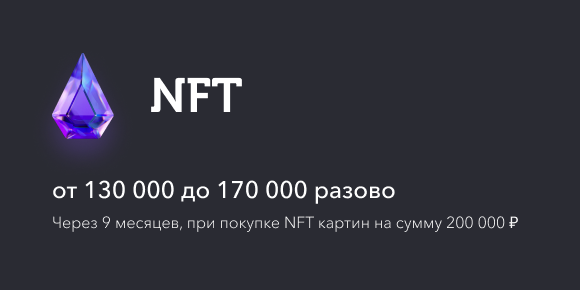
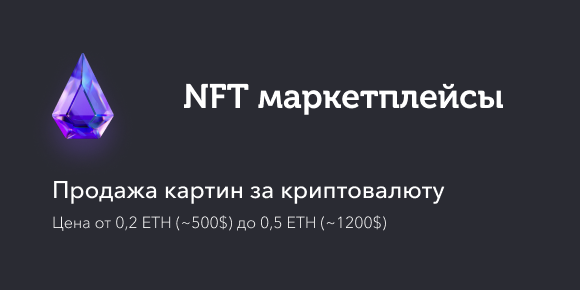
new cart & order

Changed region(s): [[0.2483, 0.2483, 0.869, 0.4034], [0.0931, 0.7448, 0.9, 0.8069], [0.0931, 0.6207, 0.7759, 0.7138]]

diff --git a/src/pages/Index.vue b/src/pages/Index.vue
@@ -16,8 +16,8 @@
           <q-carousel-slide :name="index+1" :img-src="$q.screen.lt.sm ? slide.image_mob : slide.image" v-for="(slide,index) in offerSlides" :key="index" >
             <div class="container full-height">
               <div class="flex column justify-center full-height">
-                <p class="text-white text-h3 text-avenir-600">{{slide.title}}</p>
-                <p class="text-white text-h6 text-weight-bold" v-html="slide.text"></p>
+                <p style="font-size: 5vw" class="text-white  text-avenir-600 q-mb-lg">{{slide.title}}</p>
+                <p style="font-size: 2vw" class="text-white  text-weight-bold" v-html="slide.text"></p>
                 <div v-if="slide.button_url" class="q-mt-xl">
                   <q-btn class="q-py-sm q-px-lg" rounded color="white" text-color="dark"
                          size="18px" no-caps unelevated :label="slide.button_text" :to="slide.button_url"/>
@@ -117,56 +117,56 @@
             <div class="row q-col-gutter-lg">
               <div class="col-12 col-md-6">
                 <q-img class="q-mb-lg" src="~assets/pp1-1.png"/>
-                <div class="flex items-center q-mb-md">
-                  <svg class="q-mr-sm" width="24" height="24" viewBox="0 0 24 24" fill="none" xmlns="http://www.w3.org/2000/svg">
-                    <path d="M14.72 8.79L10.43 13.09L8.78 11.44C8.69036 11.3353 8.58004 11.2503 8.45597 11.1903C8.33191 11.1303 8.19678 11.0965 8.05906 11.0912C7.92134 11.0859 7.78401 11.1091 7.65568 11.1594C7.52736 11.2096 7.41081 11.2859 7.31335 11.3833C7.2159 11.4808 7.13964 11.5974 7.08937 11.7257C7.03909 11.854 7.01589 11.9913 7.02121 12.1291C7.02653 12.2668 7.06026 12.4019 7.12028 12.526C7.1803 12.65 7.26532 12.7604 7.37 12.85L9.72 15.21C9.81344 15.3027 9.92426 15.376 10.0461 15.4258C10.1679 15.4755 10.2984 15.5008 10.43 15.5C10.6923 15.4989 10.9437 15.3947 11.13 15.21L16.13 10.21C16.2237 10.117 16.2981 10.0064 16.3489 9.88458C16.3997 9.76272 16.4258 9.63201 16.4258 9.5C16.4258 9.36799 16.3997 9.23728 16.3489 9.11542C16.2981 8.99356 16.2237 8.88296 16.13 8.79C15.9426 8.60375 15.6892 8.49921 15.425 8.49921C15.1608 8.49921 14.9074 8.60375 14.72 8.79ZM12 2C10.0222 2 8.08879 2.58649 6.4443 3.6853C4.79981 4.78412 3.51809 6.3459 2.76121 8.17317C2.00433 10.0004 1.8063 12.0111 2.19215 13.9509C2.578 15.8907 3.53041 17.6725 4.92894 19.0711C6.32746 20.4696 8.10929 21.422 10.0491 21.8079C11.9889 22.1937 13.9996 21.9957 15.8268 21.2388C17.6541 20.4819 19.2159 19.2002 20.3147 17.5557C21.4135 15.9112 22 13.9778 22 12C22 10.6868 21.7413 9.38642 21.2388 8.17317C20.7363 6.95991 19.9997 5.85752 19.0711 4.92893C18.1425 4.00035 17.0401 3.26375 15.8268 2.7612C14.6136 2.25866 13.3132 2 12 2ZM12 20C10.4178 20 8.87104 19.5308 7.55544 18.6518C6.23985 17.7727 5.21447 16.5233 4.60897 15.0615C4.00347 13.5997 3.84504 11.9911 4.15372 10.4393C4.4624 8.88743 5.22433 7.46197 6.34315 6.34315C7.46197 5.22433 8.88743 4.4624 10.4393 4.15372C11.9911 3.84504 13.5997 4.00346 15.0615 4.60896C16.5233 5.21447 17.7727 6.23984 18.6518 7.55544C19.5308 8.87103 20 10.4177 20 12C20 14.1217 19.1572 16.1566 17.6569 17.6569C16.1566 19.1571 14.1217 20 12 20Z" fill="#2A2B33"/>
-                  </svg>
+<!--                <div class="flex items-center q-mb-md">-->
+<!--                  <svg class="q-mr-sm" width="24" height="24" viewBox="0 0 24 24" fill="none" xmlns="http://www.w3.org/2000/svg">-->
+<!--                    <path d="M14.72 8.79L10.43 13.09L8.78 11.44C8.69036 11.3353 8.58004 11.2503 8.45597 11.1903C8.33191 11.1303 8.19678 11.0965 8.05906 11.0912C7.92134 11.0859 7.78401 11.1091 7.65568 11.1594C7.52736 11.2096 7.41081 11.2859 7.31335 11.3833C7.2159 11.4808 7.13964 11.5974 7.08937 11.7257C7.03909 11.854 7.01589 11.9913 7.02121 12.1291C7.02653 12.2668 7.06026 12.4019 7.12028 12.526C7.1803 12.65 7.26532 12.7604 7.37 12.85L9.72 15.21C9.81344 15.3027 9.92426 15.376 10.0461 15.4258C10.1679 15.4755 10.2984 15.5008 10.43 15.5C10.6923 15.4989 10.9437 15.3947 11.13 15.21L16.13 10.21C16.2237 10.117 16.2981 10.0064 16.3489 9.88458C16.3997 9.76272 16.4258 9.63201 16.4258 9.5C16.4258 9.36799 16.3997 9.23728 16.3489 9.11542C16.2981 8.99356 16.2237 8.88296 16.13 8.79C15.9426 8.60375 15.6892 8.49921 15.425 8.49921C15.1608 8.49921 14.9074 8.60375 14.72 8.79ZM12 2C10.0222 2 8.08879 2.58649 6.4443 3.6853C4.79981 4.78412 3.51809 6.3459 2.76121 8.17317C2.00433 10.0004 1.8063 12.0111 2.19215 13.9509C2.578 15.8907 3.53041 17.6725 4.92894 19.0711C6.32746 20.4696 8.10929 21.422 10.0491 21.8079C11.9889 22.1937 13.9996 21.9957 15.8268 21.2388C17.6541 20.4819 19.2159 19.2002 20.3147 17.5557C21.4135 15.9112 22 13.9778 22 12C22 10.6868 21.7413 9.38642 21.2388 8.17317C20.7363 6.95991 19.9997 5.85752 19.0711 4.92893C18.1425 4.00035 17.0401 3.26375 15.8268 2.7612C14.6136 2.25866 13.3132 2 12 2ZM12 20C10.4178 20 8.87104 19.5308 7.55544 18.6518C6.23985 17.7727 5.21447 16.5233 4.60897 15.0615C4.00347 13.5997 3.84504 11.9911 4.15372 10.4393C4.4624 8.88743 5.22433 7.46197 6.34315 6.34315C7.46197 5.22433 8.88743 4.4624 10.4393 4.15372C11.9911 3.84504 13.5997 4.00346 15.0615 4.60896C16.5233 5.21447 17.7727 6.23984 18.6518 7.55544C19.5308 8.87103 20 10.4177 20 12C20 14.1217 19.1572 16.1566 17.6569 17.6569C16.1566 19.1571 14.1217 20 12 20Z" fill="#2A2B33"/>-->
+<!--                  </svg>-->
 
-                  <p class="no-margin text-body2 text-avenir-450">Начисляем 2.5% от суммы покупки ежемесячно (30% в год)</p>
-                </div>
-                <div class="flex items-center q-mb-md">
-                  <svg class="q-mr-sm" width="24" height="24" viewBox="0 0 24 24" fill="none" xmlns="http://www.w3.org/2000/svg">
-                    <path d="M14.72 8.79L10.43 13.09L8.78 11.44C8.69036 11.3353 8.58004 11.2503 8.45597 11.1903C8.33191 11.1303 8.19678 11.0965 8.05906 11.0912C7.92134 11.0859 7.78401 11.1091 7.65568 11.1594C7.52736 11.2096 7.41081 11.2859 7.31335 11.3833C7.2159 11.4808 7.13964 11.5974 7.08937 11.7257C7.03909 11.854 7.01589 11.9913 7.02121 12.1291C7.02653 12.2668 7.06026 12.4019 7.12028 12.526C7.1803 12.65 7.26532 12.7604 7.37 12.85L9.72 15.21C9.81344 15.3027 9.92426 15.376 10.0461 15.4258C10.1679 15.4755 10.2984 15.5008 10.43 15.5C10.6923 15.4989 10.9437 15.3947 11.13 15.21L16.13 10.21C16.2237 10.117 16.2981 10.0064 16.3489 9.88458C16.3997 9.76272 16.4258 9.63201 16.4258 9.5C16.4258 9.36799 16.3997 9.23728 16.3489 9.11542C16.2981 8.99356 16.2237 8.88296 16.13 8.79C15.9426 8.60375 15.6892 8.49921 15.425 8.49921C15.1608 8.49921 14.9074 8.60375 14.72 8.79ZM12 2C10.0222 2 8.08879 2.58649 6.4443 3.6853C4.79981 4.78412 3.51809 6.3459 2.76121 8.17317C2.00433 10.0004 1.8063 12.0111 2.19215 13.9509C2.578 15.8907 3.53041 17.6725 4.92894 19.0711C6.32746 20.4696 8.10929 21.422 10.0491 21.8079C11.9889 22.1937 13.9996 21.9957 15.8268 21.2388C17.6541 20.4819 19.2159 19.2002 20.3147 17.5557C21.4135 15.9112 22 13.9778 22 12C22 10.6868 21.7413 9.38642 21.2388 8.17317C20.7363 6.95991 19.9997 5.85752 19.0711 4.92893C18.1425 4.00035 17.0401 3.26375 15.8268 2.7612C14.6136 2.25866 13.3132 2 12 2ZM12 20C10.4178 20 8.87104 19.5308 7.55544 18.6518C6.23985 17.7727 5.21447 16.5233 4.60897 15.0615C4.00347 13.5997 3.84504 11.9911 4.15372 10.4393C4.4624 8.88743 5.22433 7.46197 6.34315 6.34315C7.46197 5.22433 8.88743 4.4624 10.4393 4.15372C11.9911 3.84504 13.5997 4.00346 15.0615 4.60896C16.5233 5.21447 17.7727 6.23984 18.6518 7.55544C19.5308 8.87103 20 10.4177 20 12C20 14.1217 19.1572 16.1566 17.6569 17.6569C16.1566 19.1571 14.1217 20 12 20Z" fill="#2A2B33"/>
-                  </svg>
+<!--                  <p class="no-margin text-body2 text-avenir-450">Начисляем 2.5% от суммы покупки ежемесячно (30% в год)</p>-->
+<!--                </div>-->
+<!--                <div class="flex items-center q-mb-md">-->
+<!--                  <svg class="q-mr-sm" width="24" height="24" viewBox="0 0 24 24" fill="none" xmlns="http://www.w3.org/2000/svg">-->
+<!--                    <path d="M14.72 8.79L10.43 13.09L8.78 11.44C8.69036 11.3353 8.58004 11.2503 8.45597 11.1903C8.33191 11.1303 8.19678 11.0965 8.05906 11.0912C7.92134 11.0859 7.78401 11.1091 7.65568 11.1594C7.52736 11.2096 7.41081 11.2859 7.31335 11.3833C7.2159 11.4808 7.13964 11.5974 7.08937 11.7257C7.03909 11.854 7.01589 11.9913 7.02121 12.1291C7.02653 12.2668 7.06026 12.4019 7.12028 12.526C7.1803 12.65 7.26532 12.7604 7.37 12.85L9.72 15.21C9.81344 15.3027 9.92426 15.376 10.0461 15.4258C10.1679 15.4755 10.2984 15.5008 10.43 15.5C10.6923 15.4989 10.9437 15.3947 11.13 15.21L16.13 10.21C16.2237 10.117 16.2981 10.0064 16.3489 9.88458C16.3997 9.76272 16.4258 9.63201 16.4258 9.5C16.4258 9.36799 16.3997 9.23728 16.3489 9.11542C16.2981 8.99356 16.2237 8.88296 16.13 8.79C15.9426 8.60375 15.6892 8.49921 15.425 8.49921C15.1608 8.49921 14.9074 8.60375 14.72 8.79ZM12 2C10.0222 2 8.08879 2.58649 6.4443 3.6853C4.79981 4.78412 3.51809 6.3459 2.76121 8.17317C2.00433 10.0004 1.8063 12.0111 2.19215 13.9509C2.578 15.8907 3.53041 17.6725 4.92894 19.0711C6.32746 20.4696 8.10929 21.422 10.0491 21.8079C11.9889 22.1937 13.9996 21.9957 15.8268 21.2388C17.6541 20.4819 19.2159 19.2002 20.3147 17.5557C21.4135 15.9112 22 13.9778 22 12C22 10.6868 21.7413 9.38642 21.2388 8.17317C20.7363 6.95991 19.9997 5.85752 19.0711 4.92893C18.1425 4.00035 17.0401 3.26375 15.8268 2.7612C14.6136 2.25866 13.3132 2 12 2ZM12 20C10.4178 20 8.87104 19.5308 7.55544 18.6518C6.23985 17.7727 5.21447 16.5233 4.60897 15.0615C4.00347 13.5997 3.84504 11.9911 4.15372 10.4393C4.4624 8.88743 5.22433 7.46197 6.34315 6.34315C7.46197 5.22433 8.88743 4.4624 10.4393 4.15372C11.9911 3.84504 13.5997 4.00346 15.0615 4.60896C16.5233 5.21447 17.7727 6.23984 18.6518 7.55544C19.5308 8.87103 20 10.4177 20 12C20 14.1217 19.1572 16.1566 17.6569 17.6569C16.1566 19.1571 14.1217 20 12 20Z" fill="#2A2B33"/>-->
+<!--                  </svg>-->
 
-                  <p class="no-margin text-body2 text-avenir-450">Вывод средств и возврат картины в любое время</p>
-                </div>
-                <div class="flex items-center q-mb-lg">
-                  <svg class="q-mr-sm" width="24" height="24" viewBox="0 0 24 24" fill="none" xmlns="http://www.w3.org/2000/svg">
-                    <path d="M12 1L20.217 2.826C20.674 2.928 21 3.333 21 3.802V13.789C21 15.795 19.997 17.669 18.328 18.781L12 23L5.672 18.781C4.002 17.668 3 15.795 3 13.79V3.802C3 3.333 3.326 2.928 3.783 2.826L12 1ZM12 3.049L5 4.604V13.789C5 15.126 5.668 16.375 6.781 17.117L12 20.597L17.219 17.117C18.332 16.375 19 15.127 19 13.79V4.604L12 3.05V3.049ZM16.452 8.222L17.867 9.636L11.503 16L7.26 11.757L8.674 10.343L11.502 13.171L16.452 8.221V8.222Z" fill="#00C8AF"/>
-                  </svg>
+<!--                  <p class="no-margin text-body2 text-avenir-450">Вывод средств и возврат картины в любое время</p>-->
+<!--                </div>-->
+<!--                <div class="flex items-center q-mb-lg">-->
+<!--                  <svg class="q-mr-sm" width="24" height="24" viewBox="0 0 24 24" fill="none" xmlns="http://www.w3.org/2000/svg">-->
+<!--                    <path d="M12 1L20.217 2.826C20.674 2.928 21 3.333 21 3.802V13.789C21 15.795 19.997 17.669 18.328 18.781L12 23L5.672 18.781C4.002 17.668 3 15.795 3 13.79V3.802C3 3.333 3.326 2.928 3.783 2.826L12 1ZM12 3.049L5 4.604V13.789C5 15.126 5.668 16.375 6.781 17.117L12 20.597L17.219 17.117C18.332 16.375 19 15.127 19 13.79V4.604L12 3.05V3.049ZM16.452 8.222L17.867 9.636L11.503 16L7.26 11.757L8.674 10.343L11.502 13.171L16.452 8.221V8.222Z" fill="#00C8AF"/>-->
+<!--                  </svg>-->
 
 
-                  <p class="no-margin text-body2 text-avenir-450">Надежный постоянный доход</p>
-                </div>
+<!--                  <p class="no-margin text-body2 text-avenir-450">Надежный постоянный доход</p>-->
+<!--                </div>-->
 <!--                <q-btn class="q-px-xl"   size="18px" color="dark" rounded unelevated no-caps text-color="white" label="Узнать больше"/>-->
               </div>
               <div class="col-12 col-md-6">
                 <q-img class="q-mb-lg"  src="~assets/pp2-1.png"/>
-                <div class="flex items-center q-mb-md">
-                  <svg class="q-mr-sm" width="24" height="24" viewBox="0 0 24 24" fill="none" xmlns="http://www.w3.org/2000/svg">
-                    <path d="M14.72 8.79L10.43 13.09L8.78 11.44C8.69036 11.3353 8.58004 11.2503 8.45597 11.1903C8.33191 11.1303 8.19678 11.0965 8.05906 11.0912C7.92134 11.0859 7.78401 11.1091 7.65568 11.1594C7.52736 11.2096 7.41081 11.2859 7.31335 11.3833C7.2159 11.4808 7.13964 11.5974 7.08937 11.7257C7.03909 11.854 7.01589 11.9913 7.02121 12.1291C7.02653 12.2668 7.06026 12.4019 7.12028 12.526C7.1803 12.65 7.26532 12.7604 7.37 12.85L9.72 15.21C9.81344 15.3027 9.92426 15.376 10.0461 15.4258C10.1679 15.4755 10.2984 15.5008 10.43 15.5C10.6923 15.4989 10.9437 15.3947 11.13 15.21L16.13 10.21C16.2237 10.117 16.2981 10.0064 16.3489 9.88458C16.3997 9.76272 16.4258 9.63201 16.4258 9.5C16.4258 9.36799 16.3997 9.23728 16.3489 9.11542C16.2981 8.99356 16.2237 8.88296 16.13 8.79C15.9426 8.60375 15.6892 8.49921 15.425 8.49921C15.1608 8.49921 14.9074 8.60375 14.72 8.79ZM12 2C10.0222 2 8.08879 2.58649 6.4443 3.6853C4.79981 4.78412 3.51809 6.3459 2.76121 8.17317C2.00433 10.0004 1.8063 12.0111 2.19215 13.9509C2.578 15.8907 3.53041 17.6725 4.92894 19.0711C6.32746 20.4696 8.10929 21.422 10.0491 21.8079C11.9889 22.1937 13.9996 21.9957 15.8268 21.2388C17.6541 20.4819 19.2159 19.2002 20.3147 17.5557C21.4135 15.9112 22 13.9778 22 12C22 10.6868 21.7413 9.38642 21.2388 8.17317C20.7363 6.95991 19.9997 5.85752 19.0711 4.92893C18.1425 4.00035 17.0401 3.26375 15.8268 2.7612C14.6136 2.25866 13.3132 2 12 2ZM12 20C10.4178 20 8.87104 19.5308 7.55544 18.6518C6.23985 17.7727 5.21447 16.5233 4.60897 15.0615C4.00347 13.5997 3.84504 11.9911 4.15372 10.4393C4.4624 8.88743 5.22433 7.46197 6.34315 6.34315C7.46197 5.22433 8.88743 4.4624 10.4393 4.15372C11.9911 3.84504 13.5997 4.00346 15.0615 4.60896C16.5233 5.21447 17.7727 6.23984 18.6518 7.55544C19.5308 8.87103 20 10.4177 20 12C20 14.1217 19.1572 16.1566 17.6569 17.6569C16.1566 19.1571 14.1217 20 12 20Z" fill="#2A2B33"/>
-                  </svg>
+<!--                <div class="flex items-center q-mb-md">-->
+<!--                  <svg class="q-mr-sm" width="24" height="24" viewBox="0 0 24 24" fill="none" xmlns="http://www.w3.org/2000/svg">-->
+<!--                    <path d="M14.72 8.79L10.43 13.09L8.78 11.44C8.69036 11.3353 8.58004 11.2503 8.45597 11.1903C8.33191 11.1303 8.19678 11.0965 8.05906 11.0912C7.92134 11.0859 7.78401 11.1091 7.65568 11.1594C7.52736 11.2096 7.41081 11.2859 7.31335 11.3833C7.2159 11.4808 7.13964 11.5974 7.08937 11.7257C7.03909 11.854 7.01589 11.9913 7.02121 12.1291C7.02653 12.2668 7.06026 12.4019 7.12028 12.526C7.1803 12.65 7.26532 12.7604 7.37 12.85L9.72 15.21C9.81344 15.3027 9.92426 15.376 10.0461 15.4258C10.1679 15.4755 10.2984 15.5008 10.43 15.5C10.6923 15.4989 10.9437 15.3947 11.13 15.21L16.13 10.21C16.2237 10.117 16.2981 10.0064 16.3489 9.88458C16.3997 9.76272 16.4258 9.63201 16.4258 9.5C16.4258 9.36799 16.3997 9.23728 16.3489 9.11542C16.2981 8.99356 16.2237 8.88296 16.13 8.79C15.9426 8.60375 15.6892 8.49921 15.425 8.49921C15.1608 8.49921 14.9074 8.60375 14.72 8.79ZM12 2C10.0222 2 8.08879 2.58649 6.4443 3.6853C4.79981 4.78412 3.51809 6.3459 2.76121 8.17317C2.00433 10.0004 1.8063 12.0111 2.19215 13.9509C2.578 15.8907 3.53041 17.6725 4.92894 19.0711C6.32746 20.4696 8.10929 21.422 10.0491 21.8079C11.9889 22.1937 13.9996 21.9957 15.8268 21.2388C17.6541 20.4819 19.2159 19.2002 20.3147 17.5557C21.4135 15.9112 22 13.9778 22 12C22 10.6868 21.7413 9.38642 21.2388 8.17317C20.7363 6.95991 19.9997 5.85752 19.0711 4.92893C18.1425 4.00035 17.0401 3.26375 15.8268 2.7612C14.6136 2.25866 13.3132 2 12 2ZM12 20C10.4178 20 8.87104 19.5308 7.55544 18.6518C6.23985 17.7727 5.21447 16.5233 4.60897 15.0615C4.00347 13.5997 3.84504 11.9911 4.15372 10.4393C4.4624 8.88743 5.22433 7.46197 6.34315 6.34315C7.46197 5.22433 8.88743 4.4624 10.4393 4.15372C11.9911 3.84504 13.5997 4.00346 15.0615 4.60896C16.5233 5.21447 17.7727 6.23984 18.6518 7.55544C19.5308 8.87103 20 10.4177 20 12C20 14.1217 19.1572 16.1566 17.6569 17.6569C16.1566 19.1571 14.1217 20 12 20Z" fill="#2A2B33"/>-->
+<!--                  </svg>-->
 
-                  <p class="no-margin text-body2 text-avenir-450">Итоговая сумма варьируется от длительности рекламы</p>
-                </div>
-                <div class="flex items-center q-mb-md">
-                  <svg class="q-mr-sm" width="24" height="24" viewBox="0 0 24 24" fill="none" xmlns="http://www.w3.org/2000/svg">
-                    <path d="M14.72 8.79L10.43 13.09L8.78 11.44C8.69036 11.3353 8.58004 11.2503 8.45597 11.1903C8.33191 11.1303 8.19678 11.0965 8.05906 11.0912C7.92134 11.0859 7.78401 11.1091 7.65568 11.1594C7.52736 11.2096 7.41081 11.2859 7.31335 11.3833C7.2159 11.4808 7.13964 11.5974 7.08937 11.7257C7.03909 11.854 7.01589 11.9913 7.02121 12.1291C7.02653 12.2668 7.06026 12.4019 7.12028 12.526C7.1803 12.65 7.26532 12.7604 7.37 12.85L9.72 15.21C9.81344 15.3027 9.92426 15.376 10.0461 15.4258C10.1679 15.4755 10.2984 15.5008 10.43 15.5C10.6923 15.4989 10.9437 15.3947 11.13 15.21L16.13 10.21C16.2237 10.117 16.2981 10.0064 16.3489 9.88458C16.3997 9.76272 16.4258 9.63201 16.4258 9.5C16.4258 9.36799 16.3997 9.23728 16.3489 9.11542C16.2981 8.99356 16.2237 8.88296 16.13 8.79C15.9426 8.60375 15.6892 8.49921 15.425 8.49921C15.1608 8.49921 14.9074 8.60375 14.72 8.79ZM12 2C10.0222 2 8.08879 2.58649 6.4443 3.6853C4.79981 4.78412 3.51809 6.3459 2.76121 8.17317C2.00433 10.0004 1.8063 12.0111 2.19215 13.9509C2.578 15.8907 3.53041 17.6725 4.92894 19.0711C6.32746 20.4696 8.10929 21.422 10.0491 21.8079C11.9889 22.1937 13.9996 21.9957 15.8268 21.2388C17.6541 20.4819 19.2159 19.2002 20.3147 17.5557C21.4135 15.9112 22 13.9778 22 12C22 10.6868 21.7413 9.38642 21.2388 8.17317C20.7363 6.95991 19.9997 5.85752 19.0711 4.92893C18.1425 4.00035 17.0401 3.26375 15.8268 2.7612C14.6136 2.25866 13.3132 2 12 2ZM12 20C10.4178 20 8.87104 19.5308 7.55544 18.6518C6.23985 17.7727 5.21447 16.5233 4.60897 15.0615C4.00347 13.5997 3.84504 11.9911 4.15372 10.4393C4.4624 8.88743 5.22433 7.46197 6.34315 6.34315C7.46197 5.22433 8.88743 4.4624 10.4393 4.15372C11.9911 3.84504 13.5997 4.00346 15.0615 4.60896C16.5233 5.21447 17.7727 6.23984 18.6518 7.55544C19.5308 8.87103 20 10.4177 20 12C20 14.1217 19.1572 16.1566 17.6569 17.6569C16.1566 19.1571 14.1217 20 12 20Z" fill="#2A2B33"/>
-                  </svg>
+<!--                  <p class="no-margin text-body2 text-avenir-450">Итоговая сумма варьируется от длительности рекламы</p>-->
+<!--                </div>-->
+<!--                <div class="flex items-center q-mb-md">-->
+<!--                  <svg class="q-mr-sm" width="24" height="24" viewBox="0 0 24 24" fill="none" xmlns="http://www.w3.org/2000/svg">-->
+<!--                    <path d="M14.72 8.79L10.43 13.09L8.78 11.44C8.69036 11.3353 8.58004 11.2503 8.45597 11.1903C8.33191 11.1303 8.19678 11.0965 8.05906 11.0912C7.92134 11.0859 7.78401 11.1091 7.65568 11.1594C7.52736 11.2096 7.41081 11.2859 7.31335 11.3833C7.2159 11.4808 7.13964 11.5974 7.08937 11.7257C7.03909 11.854 7.01589 11.9913 7.02121 12.1291C7.02653 12.2668 7.06026 12.4019 7.12028 12.526C7.1803 12.65 7.26532 12.7604 7.37 12.85L9.72 15.21C9.81344 15.3027 9.92426 15.376 10.0461 15.4258C10.1679 15.4755 10.2984 15.5008 10.43 15.5C10.6923 15.4989 10.9437 15.3947 11.13 15.21L16.13 10.21C16.2237 10.117 16.2981 10.0064 16.3489 9.88458C16.3997 9.76272 16.4258 9.63201 16.4258 9.5C16.4258 9.36799 16.3997 9.23728 16.3489 9.11542C16.2981 8.99356 16.2237 8.88296 16.13 8.79C15.9426 8.60375 15.6892 8.49921 15.425 8.49921C15.1608 8.49921 14.9074 8.60375 14.72 8.79ZM12 2C10.0222 2 8.08879 2.58649 6.4443 3.6853C4.79981 4.78412 3.51809 6.3459 2.76121 8.17317C2.00433 10.0004 1.8063 12.0111 2.19215 13.9509C2.578 15.8907 3.53041 17.6725 4.92894 19.0711C6.32746 20.4696 8.10929 21.422 10.0491 21.8079C11.9889 22.1937 13.9996 21.9957 15.8268 21.2388C17.6541 20.4819 19.2159 19.2002 20.3147 17.5557C21.4135 15.9112 22 13.9778 22 12C22 10.6868 21.7413 9.38642 21.2388 8.17317C20.7363 6.95991 19.9997 5.85752 19.0711 4.92893C18.1425 4.00035 17.0401 3.26375 15.8268 2.7612C14.6136 2.25866 13.3132 2 12 2ZM12 20C10.4178 20 8.87104 19.5308 7.55544 18.6518C6.23985 17.7727 5.21447 16.5233 4.60897 15.0615C4.00347 13.5997 3.84504 11.9911 4.15372 10.4393C4.4624 8.88743 5.22433 7.46197 6.34315 6.34315C7.46197 5.22433 8.88743 4.4624 10.4393 4.15372C11.9911 3.84504 13.5997 4.00346 15.0615 4.60896C16.5233 5.21447 17.7727 6.23984 18.6518 7.55544C19.5308 8.87103 20 10.4177 20 12C20 14.1217 19.1572 16.1566 17.6569 17.6569C16.1566 19.1571 14.1217 20 12 20Z" fill="#2A2B33"/>-->
+<!--                  </svg>-->
 
-                  <p class="no-margin text-body2 text-avenir-450">Вывод средств через 5 месяцев (от 18 до 34% прибыли)<br>или 9 месяцев (от 65 до 85% прибыли)</p>
-                </div>
-                <div class="flex items-center q-mb-lg">
-                  <svg class="q-mr-sm" width="24" height="24" viewBox="0 0 24 24" fill="none" xmlns="http://www.w3.org/2000/svg">
-                    <path d="M11.9996 7V13M17.4796 3.5L22.0996 11.5C22.1874 11.652 22.2336 11.8245 22.2336 12C22.2336 12.1755 22.1874 12.348 22.0996 12.5L17.4796 20.5C17.3923 20.6511 17.2671 20.7768 17.1162 20.8645C16.9653 20.9522 16.7941 20.9989 16.6196 21H7.3796C7.20509 20.9989 7.03389 20.9522 6.88302 20.8645C6.73214 20.7768 6.60685 20.6511 6.5196 20.5L1.8996 12.5C1.81183 12.348 1.76562 12.1755 1.76562 12C1.76562 11.8245 1.81183 11.652 1.8996 11.5L6.5196 3.5C6.60685 3.34886 6.73214 3.22319 6.88302 3.13547C7.03389 3.04776 7.20509 3.00105 7.3796 3H16.6196C16.7941 3.00105 16.9653 3.04776 17.1162 3.13547C17.2671 3.22319 17.3923 3.34886 17.4796 3.5V3.5Z" stroke="#FF8887" stroke-width="2.5" stroke-linecap="round" stroke-linejoin="round"/>
-                    <path d="M12.0492 17H11.9492" stroke="#FF8887" stroke-width="2.5" stroke-linecap="round" stroke-linejoin="round"/>
-                  </svg>
+<!--                  <p class="no-margin text-body2 text-avenir-450">Вывод средств через 5 месяцев (от 18 до 34% прибыли)<br>или 9 месяцев (от 65 до 85% прибыли)</p>-->
+<!--                </div>-->
+<!--                <div class="flex items-center q-mb-lg">-->
+<!--                  <svg class="q-mr-sm" width="24" height="24" viewBox="0 0 24 24" fill="none" xmlns="http://www.w3.org/2000/svg">-->
+<!--                    <path d="M11.9996 7V13M17.4796 3.5L22.0996 11.5C22.1874 11.652 22.2336 11.8245 22.2336 12C22.2336 12.1755 22.1874 12.348 22.0996 12.5L17.4796 20.5C17.3923 20.6511 17.2671 20.7768 17.1162 20.8645C16.9653 20.9522 16.7941 20.9989 16.6196 21H7.3796C7.20509 20.9989 7.03389 20.9522 6.88302 20.8645C6.73214 20.7768 6.60685 20.6511 6.5196 20.5L1.8996 12.5C1.81183 12.348 1.76562 12.1755 1.76562 12C1.76562 11.8245 1.81183 11.652 1.8996 11.5L6.5196 3.5C6.60685 3.34886 6.73214 3.22319 6.88302 3.13547C7.03389 3.04776 7.20509 3.00105 7.3796 3H16.6196C16.7941 3.00105 16.9653 3.04776 17.1162 3.13547C17.2671 3.22319 17.3923 3.34886 17.4796 3.5V3.5Z" stroke="#FF8887" stroke-width="2.5" stroke-linecap="round" stroke-linejoin="round"/>-->
+<!--                    <path d="M12.0492 17H11.9492" stroke="#FF8887" stroke-width="2.5" stroke-linecap="round" stroke-linejoin="round"/>-->
+<!--                  </svg>-->
 
 
 
-                  <p class="no-margin text-body2 text-avenir-450">Более рисковый доход, есть привязка к курсу криптовалюты</p>
-                </div>
+<!--                  <p class="no-margin text-body2 text-avenir-450">Более рисковый доход, есть привязка к курсу криптовалюты</p>-->
+<!--                </div>-->
 <!--                <q-btn class="q-px-xl"   size="18px" color="dark" rounded unelevated no-caps text-color="white" label="Узнать больше"/>-->
               </div>
             </div>

diff --git a/src/pages/Profit.vue b/src/pages/Profit.vue
@@ -9,15 +9,15 @@
       <h1 class="title q-mb-lg q-mb-lg-xl">Доход</h1>
       <!--      <p class="text-fs18 text-avenir-600 q-mb-xl">Мы, отработали систему, которая приносит доход от каждой картины.</p>-->
       <p class="text-fs18 text-avenir-300 q-mb-xl">
-Мы отработали систему, которая приносит доход от каждой картины. Для развития нашей компании мы представляем два разных тарифа по двум направлениям: классический тариф “Рантье” для получения разового дохода или же “NFT” тариф для разового получения высокой прибыли.</p>
-       <div class="row q-mb-xl">
-        <div class="col-12 col-md-6">
-          <q-img src="~assets/pp1-1.png"/>
-        </div>
-        <div class="col-12 col-md-6">
-          <q-img src="~assets/pp1-2.png"/>
-        </div>
-      </div>
+Наша работа позволяет сформировать доходность для каждой картины, при этом уровень ликвидности не зависит от художественной ценности и материальной стоимости актива, прибыль с картин получается при условии участия в экспозиционной и продажной деятельности на территории Китая, а также освоения западных цифровых продажных площадок NFT.</p>
+<!--       <div class="row q-mb-xl">-->
+<!--        <div class="col-12 col-md-6">-->
+<!--          <q-img src="~assets/pp1-1.png"/>-->
+<!--        </div>-->
+<!--        <div class="col-12 col-md-6">-->
+<!--          <q-img src="~assets/pp1-2.png"/>-->
+<!--        </div>-->
+<!--      </div>-->
 <!--      <div class="steps">-->
 <!--        <div class="step flex items-center justify-between" v-for="(step,index) in steps" :key="index">-->
 <!--          <div class="">-->
@@ -29,53 +29,64 @@
 <!--          </div>-->
 <!--        </div>-->
 <!--      </div>-->
+      <div class="q-mb-lg"><span style="opacity: 0">sdfdsf</span></div>
       <div class="row">
         <div class="col-12 col-md-8 text-b">
-           <h3 class="title q-mb-lg fs-36">Заработок на экспозиции картин</h3>
+           <h3 class="title q-mb-lg fs-36">01. Экспозиции картин в Китае</h3>
           <p class="no-margin text-avenir-300">
-            Для Китая формируем коллекции из 30 авторских репродукций, и через партнера ArtBooklet Ltd., размещаем их на экспозициях в провинциальных городах, с образовательной и просветительской целью.
-            <br><br>
-            От китайской стороны стабильно получаем 10 Юаней (1,5 $) в сутки за каждую картину, из расчета 300 экспозиционных дней в году.
-            <br><br>
-            Также открыты пункты продаж репродукций в этих местах. Необходимое количество экспозиций в год не менее 10 (300 картин), и эти потребности в Китае постоянно растут.
-            <br><br>
-            В России сдаем в аренду авторские репродукции музейного качества по 30 рублей в сутки за каждую картину, в общеобразовательные, культурные и административные учреждения, меценаты активно участвуют в этом процессе.
-          </p>
+        Для Китая формируем коллекции из авторских репродукций, и через китайского партнера ArtBooklet Ltd., размещаем их на экспозициях в провинциальных городах, с образовательной и просветительской целью.
+<br><br>
+От китайской стороны стабильно получаем 10 Юаней (1,5 $) в сутки за каждую картину, из расчета 300 экспозиционных дней в году, там же открыты пункты продаж репродукций. Необходимое количество экспозиций в год не менее 10 (300 картин), и эти потребности в Китае постоянно растут.</p>
         </div>
         <div class="col-12 col-md-3 offset-0 offset-md-1 text-center img-b">
           <img src="/p1.png" alt="">
         </div>
       </div>
-      <q-separator spaced="xl"/>
+      <q-separator style="margin: 50px 0"/>
       <div class="row">
         <div class="col-12 col-md-3 text-center">
-          <img src="/p3.png" alt="">
+          <img src="~assets/nft-img.png" alt="">
         </div>
         <div class="col-12 col-md-7 offset-0 offset-md-2">
-          <h3 class="title q-mb-lg fs-36 ">Только проверенные авторы</h3>
+          <h3 class="title q-mb-lg fs-36 ">02. Продажа картин NFT – на маркетплейсах OpenSea, Foundation</h3>
           <p class="no-margin text-avenir-300">
-            Все наши картины анонимные, мы заведомо не указываем авторов, чтобы авторитетом и перечнем заслуг не завышать цены на них. С каждым художником мы имеем соглашение на покупку оцифрованной картины, на общий тираж произведения (30 штук с каждого оригинала), печать, подпись и сертификат от художника подтверждает это.
-            <br><br>
-            Репродукции картин сделаны на высочайшем уровне, с использованием наилучших, экологически чистых материалов. Наш покупатель получает одну репродукцию, остальные экземпляры отправляются управляющей компанией в разные регионы России и Китая, для обеспечения дохода.
+         NFT, или "несменяемый токен" - это уникальный цифровой сертификат, который хранится в блокчейне и предоставляет определенные права собственности на актив, такой как цифровое произведение искусства. NFT предоставляют мощный инструмент для установления и демонстрации прав собственности в пространстве цифровых активов. "Чеканка" NFT относится к созданию NFT и его записи в блокчейне впервые. Чеканщик может быть создателем работы, связанной с NFT, например, художником, или кем-либо, имеющим соответствующие права на чеканку NFT цифрового актива.
+<br><br>
+            ARTDOX - сделала NFT искусство Доходным. Наша цель - заявить о себе на торговых площадках NFT и обеспечить нашим Клиентам достойный заработок. Наш Доход зависит от длительности проведения рекламной кампании, и привязан к курсу криптовалюты ETH (Эфир). Средняя стоимость каждой работы от 0,20 до 0,50 ETH – Etherium (500 – 1300 $)
           </p>
         </div>
 
       </div>
-      <q-separator spaced="xl"/>
+       <q-separator style="margin: 50px 0"/>
       <div class="row q-mb-xl">
         <div class="col-12 col-md-7 text-b">
-          <h3 class="title q-mb-lg fs-36">Качество работы для нас превыше всего</h3>
+          <h3 class="title q-mb-lg fs-36">03. Только проверенные авторы</h3>
           <p class="no-margin text-avenir-300">
-            Мы работаем только с акварельной живописью в Digi Gravure – цифровая гравюра. DIGI – оцифровка оригинала. GRAVURE – оттиск на бумаге. Оборудование – CANON PRO – 6000 (12 – цветный принтер с минеральными пигментами высокой четкости музейного качества.
-            <br><br>
-            Пигмент- LUCIA PRO – светостойкие. Бумага 310 гр/м2, 100 % хлопок – CANSON. Покрытие спрей лаком LOREAL матовый люкс. Китайским партнерам больше подходит именно этот вариант, так как они не считают нужным страховать и нести ответственность за оригиналы.
-            <br><br>
-            Современная, цифровая, типографская техника с поразительной точностью копирует и переносит на бумагу не только цвет, но и фактуру красок, бумаги, холста.
+         Все наши картины анонимные, мы заведомо не указываем авторов, чтобы авторитетом и перечнем заслуг не завышать цены на них. С каждым художником мы имеем соглашение на покупку оцифрованной картины, на общий тираж произведения (30 штук с каждого оригинала), печать, подпись и сертификат от художника подтверждает это.
+<br><br>
+Репродукции картин сделаны на высочайшем уровне, с использованием наилучших, экологически чистых материалов. Наш покупатель получает одну репродукцию, остальные экземпляры отправляются управляющей компанией в разные регионы Китая, для обеспечения дохода.
           </p>
         </div>
         <div class="col-12 col-md-3 offset-0 offset-md-1 text-center img-b">
+          <img src="/p3.png" alt="">
+        </div>
+      </div>
+       <q-separator style="margin: 50px 0"/>
+      <div style="margin-bottom: 100px" class="row ">
+        <div class="col-12 col-md-3 text-center">
           <img src="/p4.png" alt="">
         </div>
+        <div class="col-12 col-md-7 offset-0 offset-md-2">
+          <h3 class="title q-mb-lg fs-36 ">04. Качество работы для нас превыше всего</h3>
+          <p class="no-margin text-avenir-300">
+          Мы работаем только с акварельной живописью в Digi Gravure – цифровая гравюра. DIGI – оцифровка оригинала. GRAVURE – оттиск на бумаге. Оборудование – CANON PRO – 6000 (12 – цветный принтер с минеральными пигментами высокой четкости музейного качества.
+<br><br>
+Пигмент- LUCIA PRO – светостойкие. Бумага 310 гр/м2, 100 % хлопок – CANSON. Покрытие спрей лаком LOREAL матовый люкс. Китайским партнерам больше подходит именно этот вариант, так как они не считают нужным страховать и нести ответственность за оригиналы.
+<br><br>
+Современная, цифровая, типографская техника с поразительной точностью копирует и переносит на бумагу не только цвет, но и фактуру красок, бумаги, холста.
+          </p>
+        </div>
+
       </div>
 
 
@@ -83,68 +94,68 @@
 
     </div>
 
-    <section  class="about bg-grey-2 q-mb-none q-pt-xl">
-      <div class="container">
-         <div class="row q-mb-xl">
-        <div class="col-12 col-md-6">
-          <q-img src="~assets/pp2-1.png"/>
-        </div>
-        <div class="col-12 col-md-6">
-          <q-img src="~assets/pp2-2.png"/>
-        </div>
-      </div>
-        <h3 class="title q-mb-lg ">NFT в искусстве</h3>
+<!--    <section  class="about bg-grey-2 q-mb-none q-pt-xl">-->
+<!--      <div class="container">-->
+<!--         <div class="row q-mb-xl">-->
+<!--        <div class="col-12 col-md-6">-->
+<!--          <q-img src="~assets/pp2-1.png"/>-->
+<!--        </div>-->
+<!--        <div class="col-12 col-md-6">-->
+<!--          <q-img src="~assets/pp2-2.png"/>-->
+<!--        </div>-->
+<!--      </div>-->
+<!--        <h3 class="title q-mb-lg ">NFT в искусстве</h3>-->
 
-        <div class="row q-col-gutter-md-xl items-start">
-          <div class=" col-12 col-md-6 q-mb-lg q-mb-md-none row-text">
-            <p class="text-lh-150">
-        ARTDOX.RU - первая компания, которая сделала NFT искусство Доходным.
- Наша цель - заявить о себе на торговых площадках NFT и обеспечить нашим Клиентам достойный заработок.
-<br><br>
-Каждому покупателю наших NFT картин мы отправляем  оригинал произведения по тому адресу, который он укажет при заказе картины.
-Основной заработок на NFT-площадках происходит в момент перепродажи картин после проведения рекламной кампании.
-<br><br>
-Ваш доход зависит от длительности проведения рекламной кампании и  привязан к курсу криптовалюты ETH (Эфир).
-<br><br>
-Мы гарантируем прибыль от 18 до 34% прибыли в случае проведения “короткой” рекламной кампании и от 65 до 85% прибыли в случае проведения полноценной подготовки аудитории к нашим произведениям искусства.
-<br><br>
-Все картины выкладываются на ресурс и продвигаются нашей компанией в две волны за каждый период времени, параллельно друг с другом.</p>
+<!--        <div class="row q-col-gutter-md-xl items-start">-->
+<!--          <div class=" col-12 col-md-6 q-mb-lg q-mb-md-none row-text">-->
+<!--            <p class="text-lh-150">-->
+<!--        ARTDOX.RU - первая компания, которая сделала NFT искусство Доходным.-->
+<!-- Наша цель - заявить о себе на торговых площадках NFT и обеспечить нашим Клиентам достойный заработок.-->
+<!--<br><br>-->
+<!--Каждому покупателю наших NFT картин мы отправляем  оригинал произведения по тому адресу, который он укажет при заказе картины.-->
+<!--Основной заработок на NFT-площадках происходит в момент перепродажи картин после проведения рекламной кампании.-->
+<!--<br><br>-->
+<!--Ваш доход зависит от длительности проведения рекламной кампании и  привязан к курсу криптовалюты ETH (Эфир).-->
+<!--<br><br>-->
+<!--Мы гарантируем прибыль от 18 до 34% прибыли в случае проведения “короткой” рекламной кампании и от 65 до 85% прибыли в случае проведения полноценной подготовки аудитории к нашим произведениям искусства.-->
+<!--<br><br>-->
+<!--Все картины выкладываются на ресурс и продвигаются нашей компанией в две волны за каждый период времени, параллельно друг с другом.</p>-->
 
-          </div>
-          <div class="col-12 col-md-6 row-img q-mb-lg q-mb-md-none">
+<!--          </div>-->
+<!--          <div class="col-12 col-md-6 row-img q-mb-lg q-mb-md-none">-->
 
-            <div class="col-12 text-center"><img class="img" style="width: 60%" src="~assets/nft-img.png" alt=""></div>
+<!--            <div class="col-12 text-center"><img class="img" style="width: 60%" src="~assets/nft-img.png" alt=""></div>-->
 
 
 
-          </div>
-        </div>
+<!--          </div>-->
+<!--        </div>-->
 
-      </div>
-    </section>
-      <section  class="about bg-grey-2 q-py-xl no-margin">
-      <div class="container">
-        <h3 class="title q-mb-lg fs-36">Маркетплейсы, где мы<br class="gt-sm">представлены</h3>
-        <p class="text-lh-150 q-mb-xl">
-          Кликните на логотип платформы, чтобы сразу перейти на страницу с<br class="gt-sm"> нашим верифицированным магазином </p>
-        <div class="row q-col-gutter-md-xl items-start">
-          <div class=" col-12 col-md-4 q-mb-md q-mb-md-none text-center">
-            <img class="img" src="~assets/p1.jpg" alt="">
+<!--      </div>-->
+<!--    </section>-->
+<!--      <section  class="about bg-grey-2 q-py-xl no-margin">-->
+<!--      <div class="container">-->
+<!--        <h3 class="title q-mb-lg fs-36">Маркетплейсы, где мы<br class="gt-sm">представлены</h3>-->
+<!--        <p class="text-lh-150 q-mb-xl">-->
+<!--          Кликните на логотип платформы, чтобы сразу перейти на страницу с<br class="gt-sm"> нашим верифицированным магазином </p>-->
+<!--        <div class="row q-col-gutter-md-xl items-start">-->
+<!--          <div class=" col-12 col-md-4 q-mb-md q-mb-md-none text-center">-->
+<!--            <img class="img" src="~assets/p1.jpg" alt="">-->
 
-          </div>
-          <div class=" col-12 col-md-4 q-mb-md q-mb-md-none text-center">
-            <img class="img" src="~assets/p2.jpg" alt="">
-          </div>
-          <div class=" col-12 col-md-4   text-center">
-            <img class="img" src="~assets/p3.jpg" alt="">
+<!--          </div>-->
+<!--          <div class=" col-12 col-md-4 q-mb-md q-mb-md-none text-center">-->
+<!--            <img class="img" src="~assets/p2.jpg" alt="">-->
+<!--          </div>-->
+<!--          <div class=" col-12 col-md-4   text-center">-->
+<!--            <img class="img" src="~assets/p3.jpg" alt="">-->
 
-          </div>
+<!--          </div>-->
 
-        </div>
+<!--        </div>-->
 
-      </div>
+<!--      </div>-->
 
-    </section>
+<!--    </section>-->
 
 
   </q-page>
